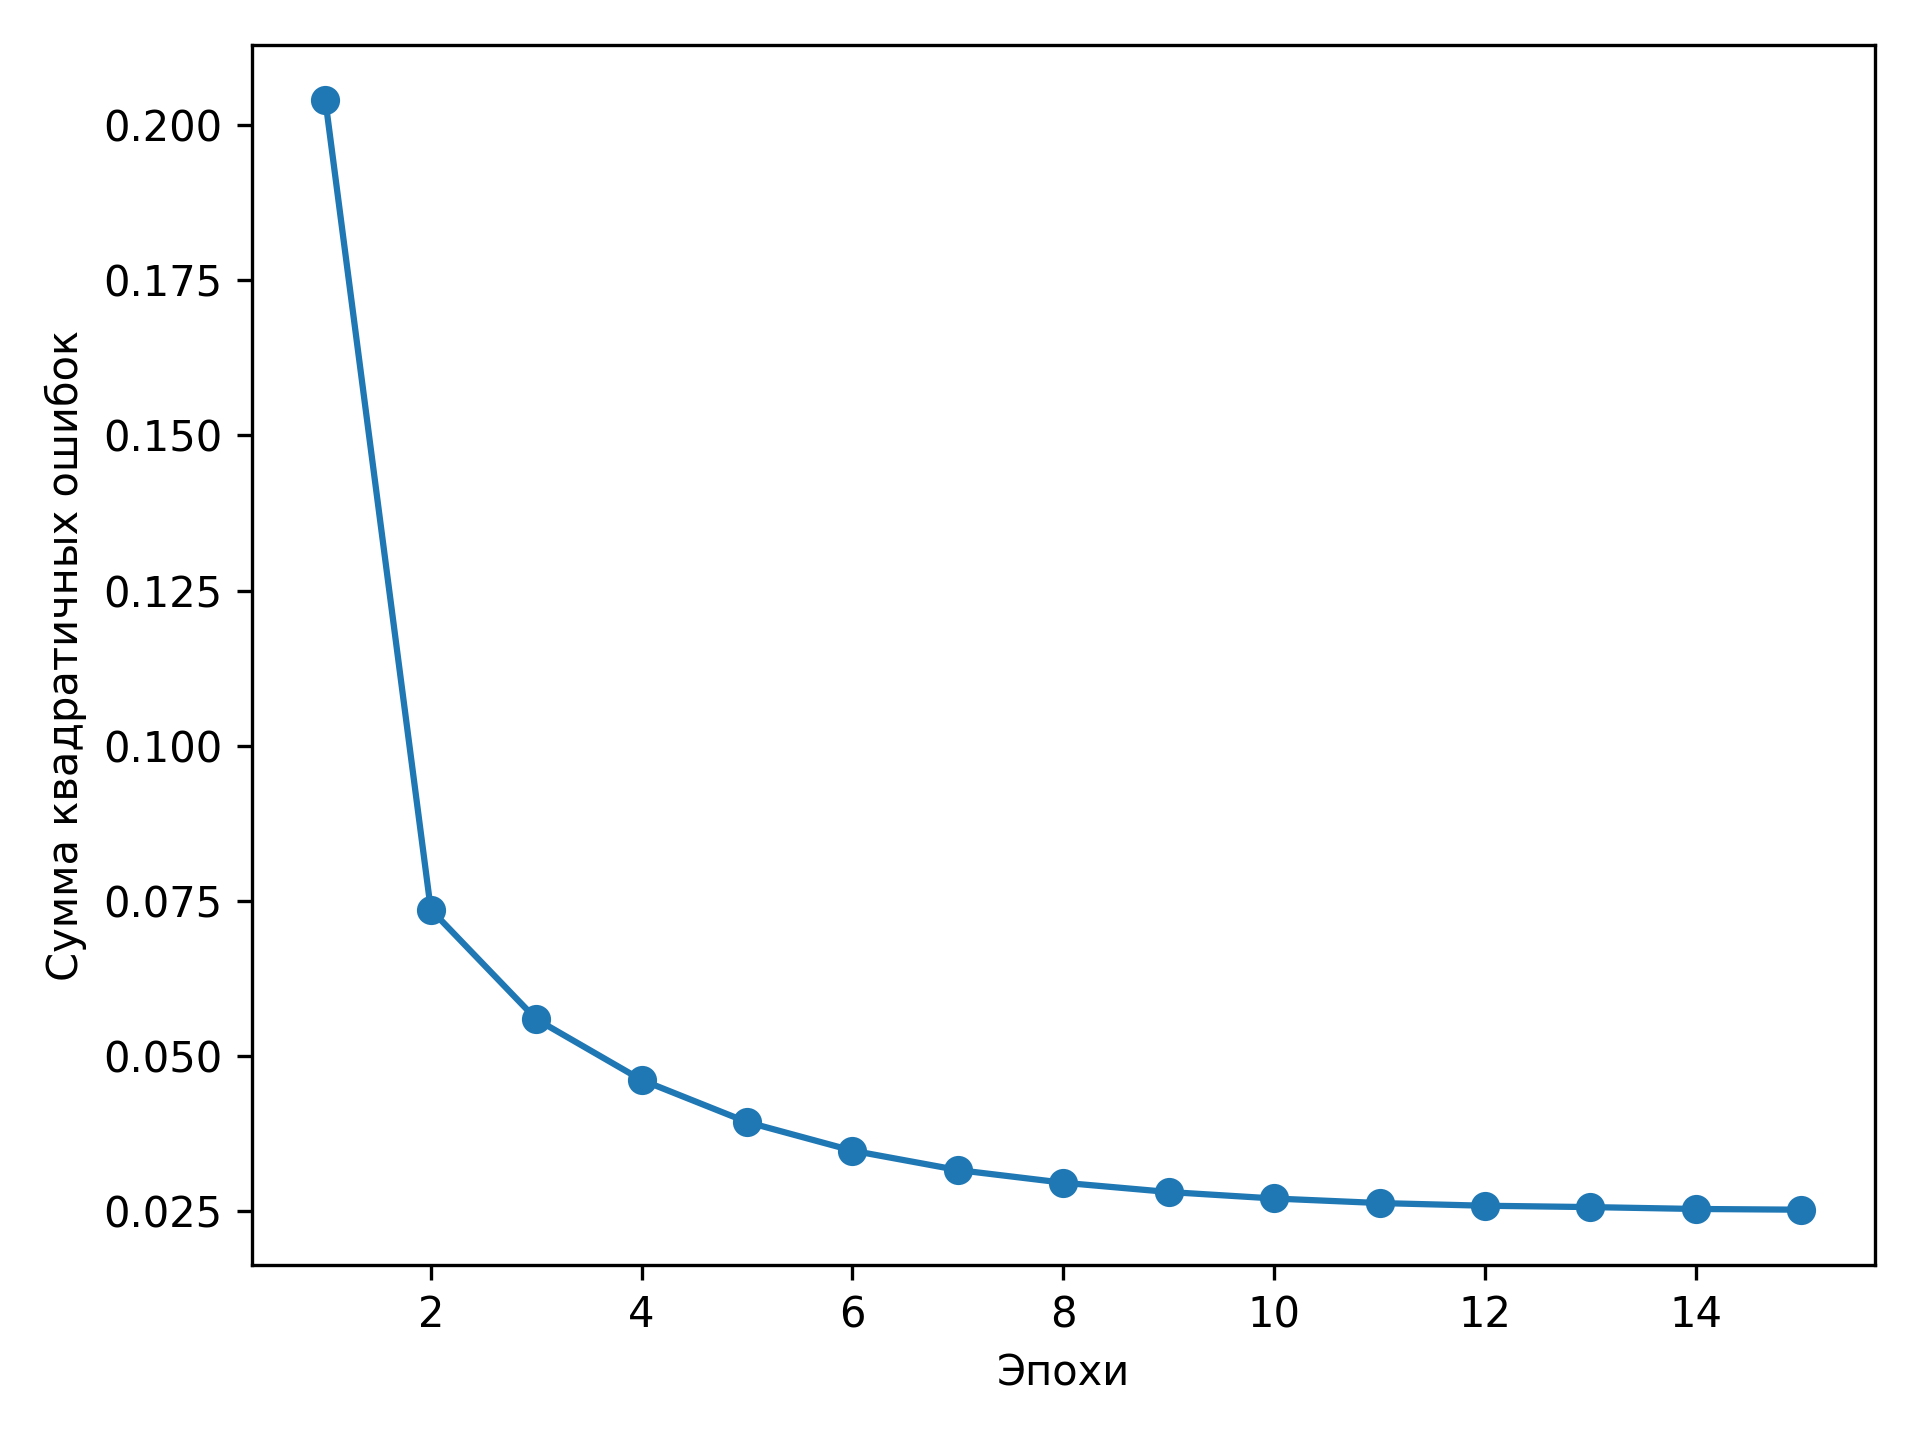
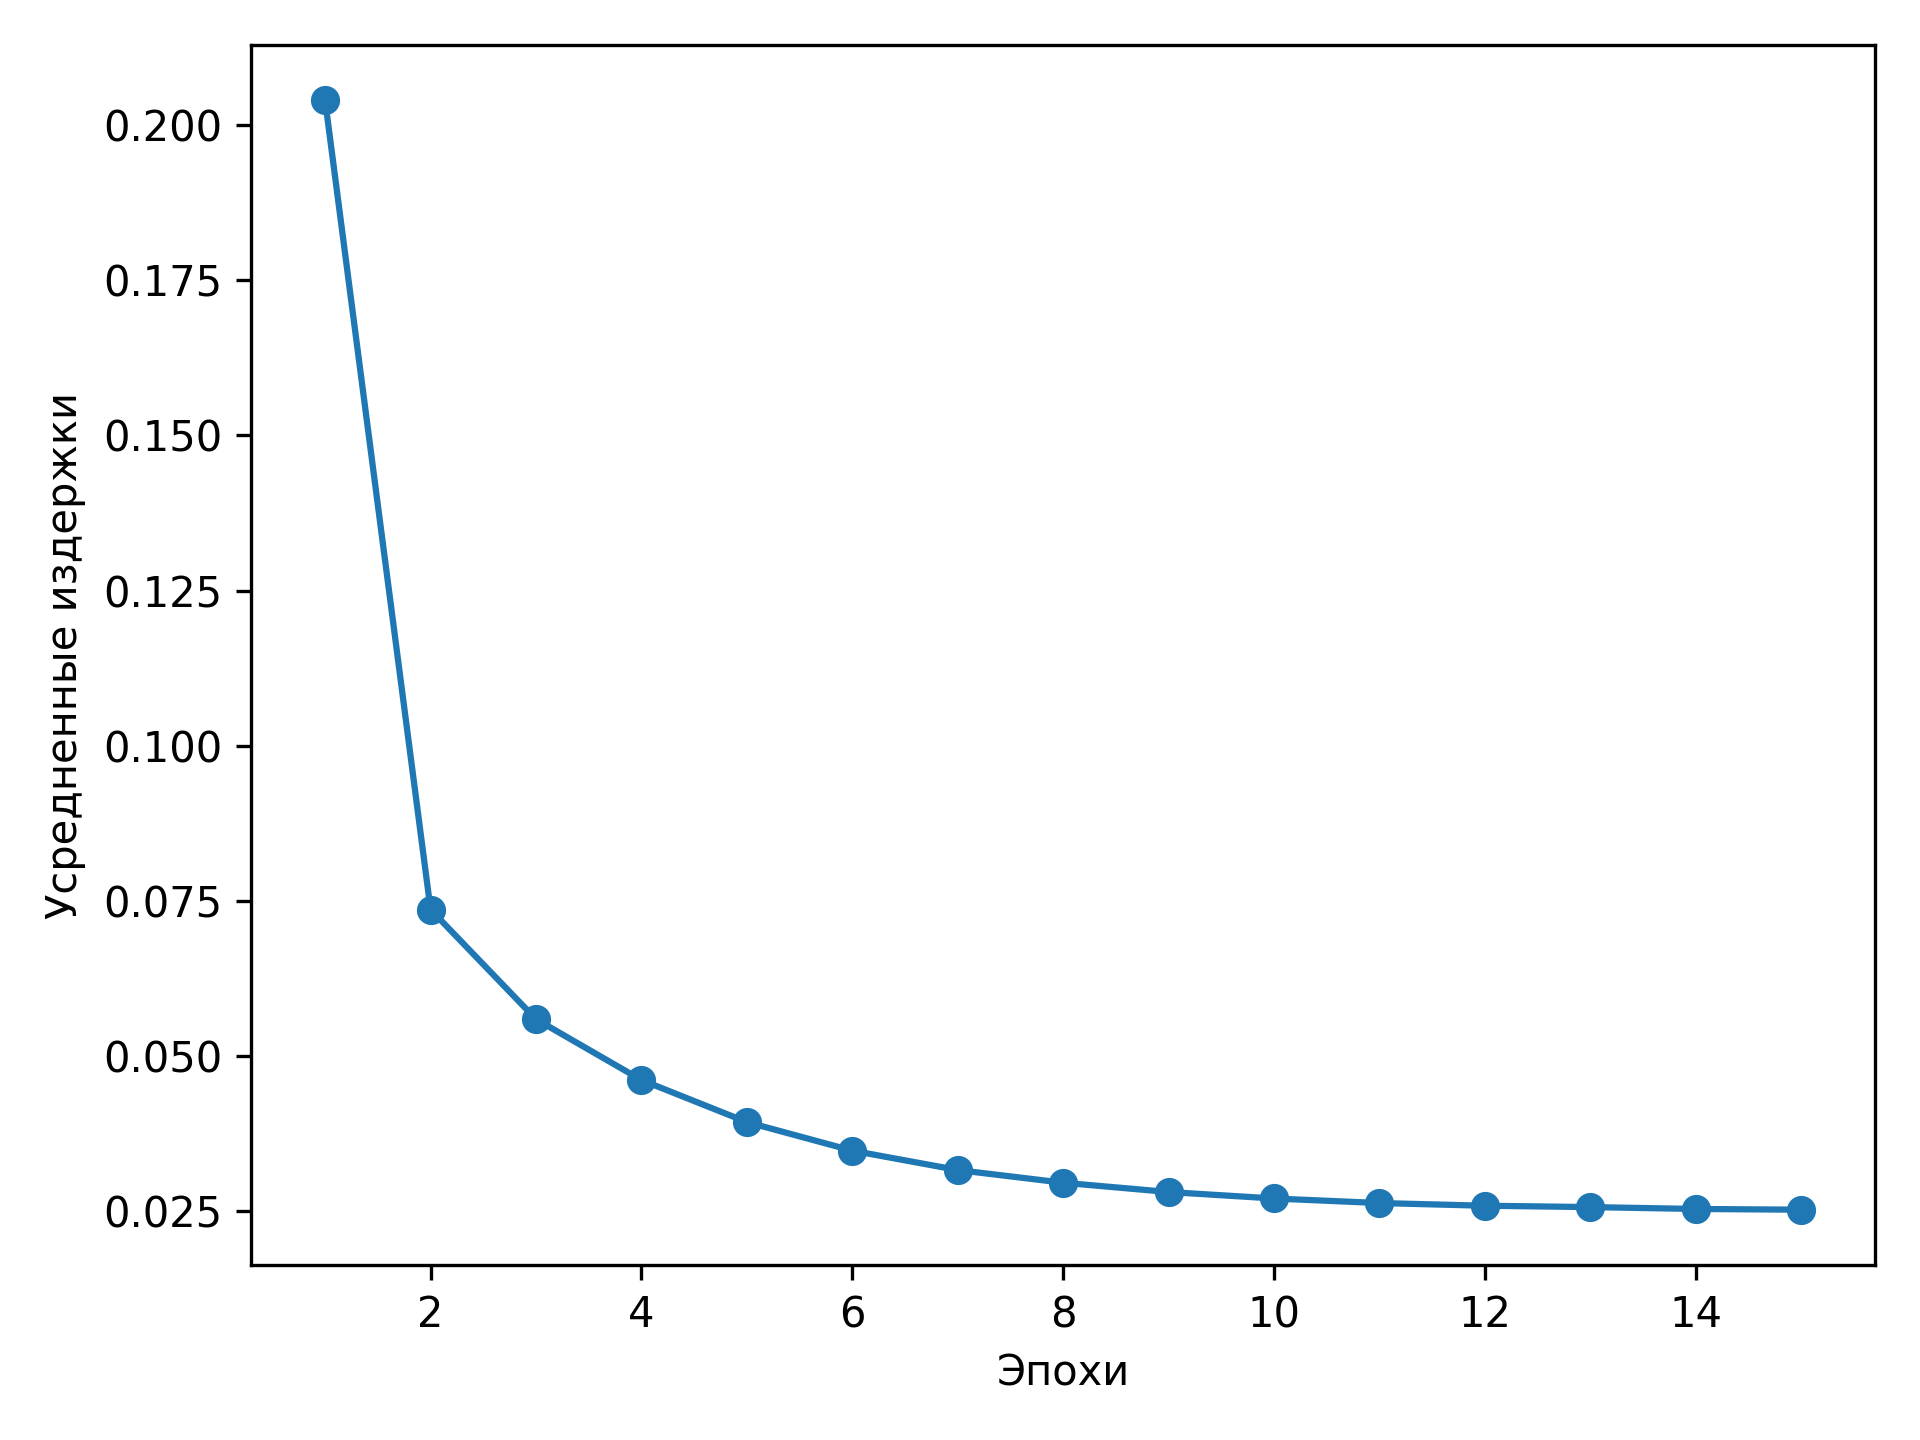
images

Changed region(s): [[0.0312, 0.25, 0.0625, 0.6562]]

diff --git a/AdalineSGD/adalineSGD.py b/AdalineSGD/adalineSGD.py
@@ -144,7 +144,7 @@ plt.show()
 
 plt.plot(range(1, len(ada.cost_) + 1), ada.cost_, marker='o')
 plt.xlabel('Эпохи')
-plt.ylabel('Сумма квадратичных ошибок')
+plt.ylabel('Усредненные издержки')
 
 plt.tight_layout()
 plt.savefig('images/learning_rate_standardized.png', dpi=300)

diff --git a/README.md b/README.md
@@ -1,2 +1,18 @@
 # Adaline
-Adaptive Linear Neuron by Python
+### Adaptive Linear Neuron by Python
+
+This repository has two realisation of Adaline - **AdalineGD** and **AdalineSGD**.
+
+The main difference is using different gradient descents. 
+**AdalineGD** uses *Batch Gradient Descent* - weights are updated based on the sum of accumulated 
+errors over all Xi samples.
+**AdalineGD** uses *Stochastic Gradient Descent* - we update weights gradually for each training sample.
+
+### Problem statement 
+Determine the type of iris (setosa or versicolor) by the length of the sepal and the length of the petal.
+
+### Dataset
+Dataset is file 'iris.data'. Each realisation has this file in root.
+
+### Visualisation
+
